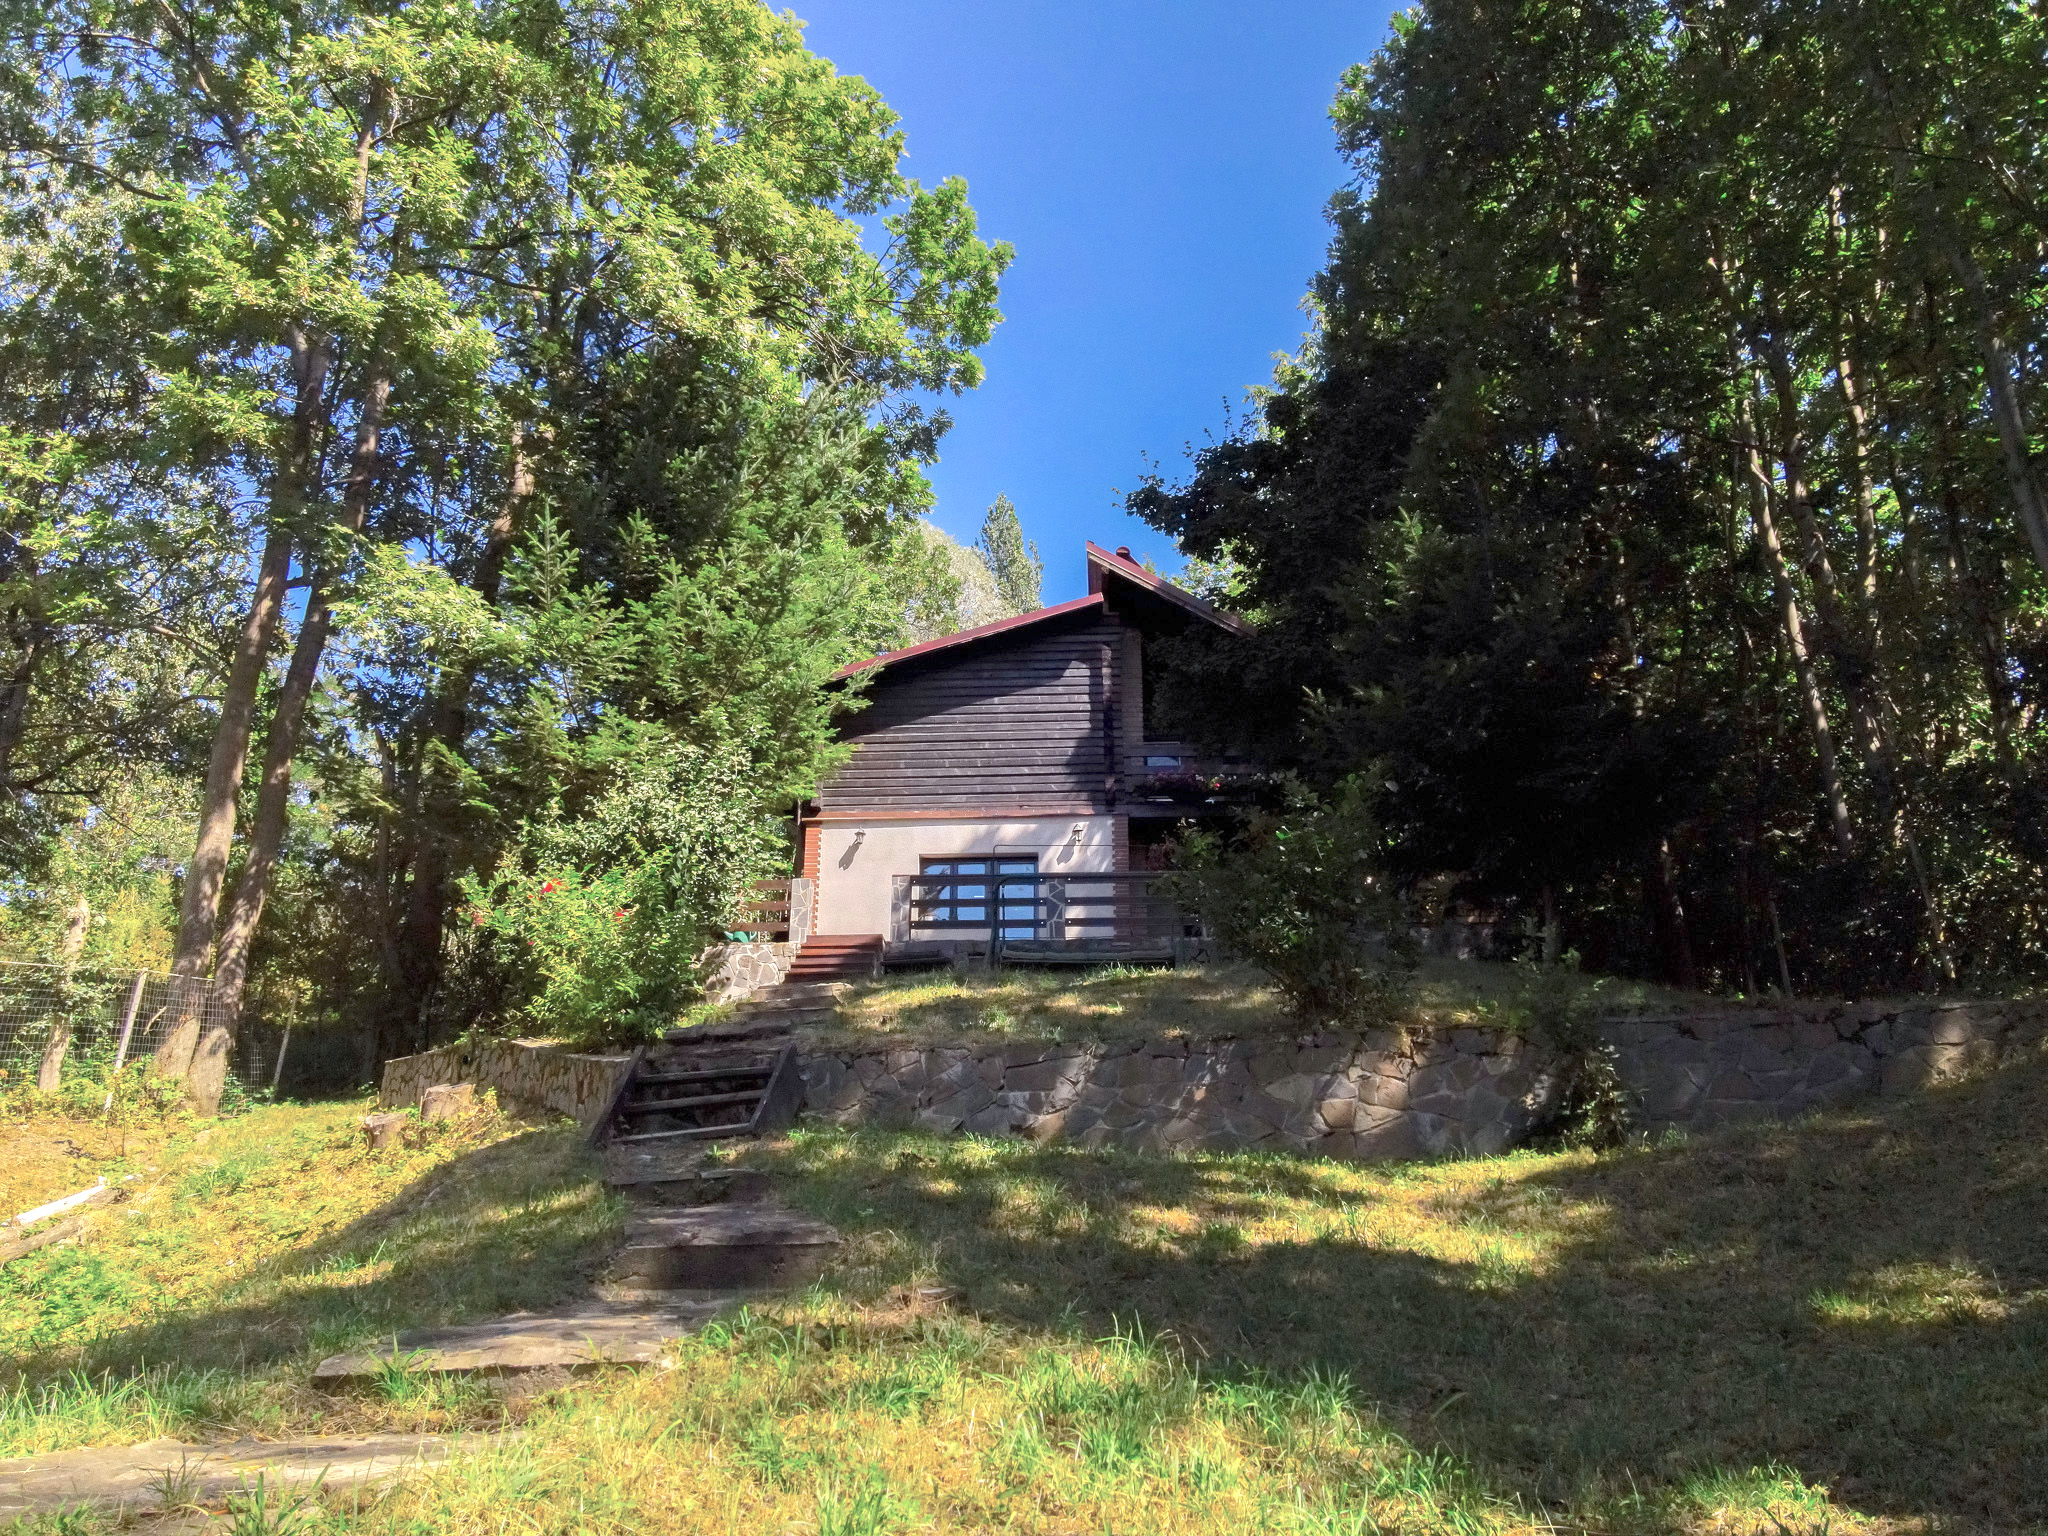
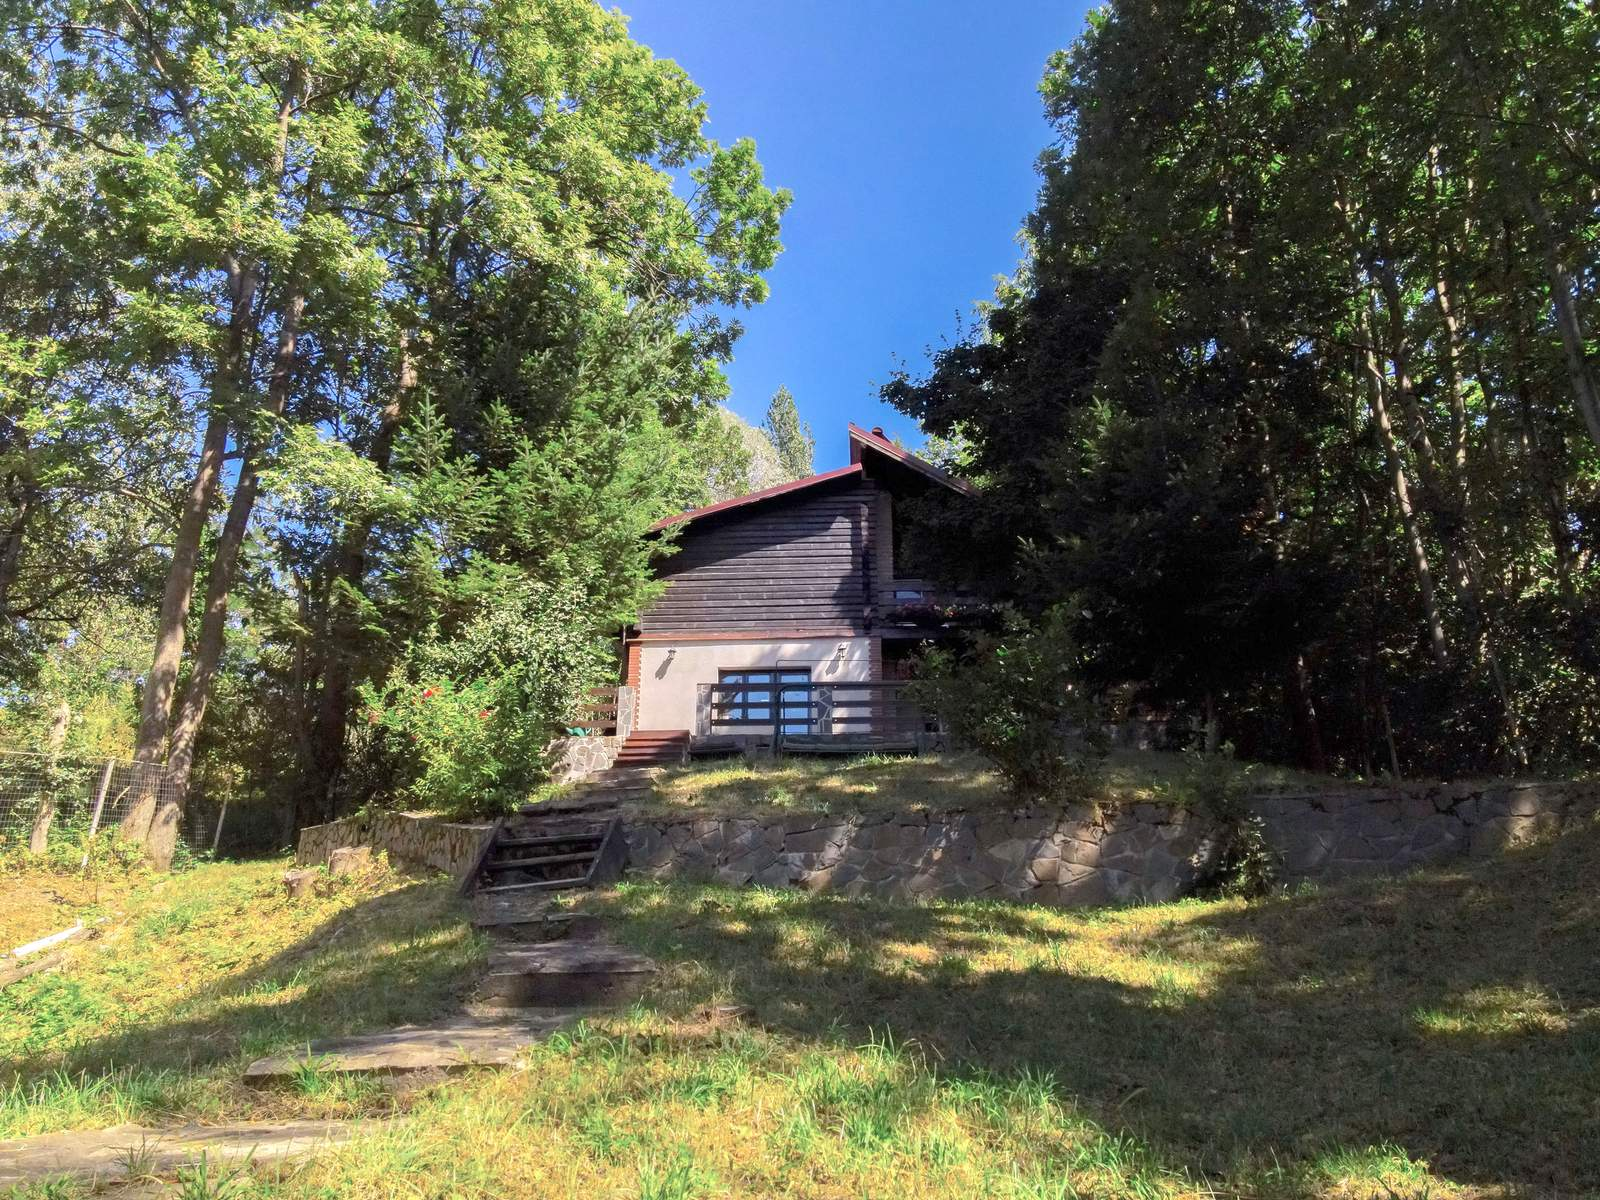
Merge pull request #147 from b-coman/fix/website-content-ux
fix: pre-ads-launch content/UX fixes for Prahova Chalet

Pull request: fix: pre-ads-launch content/UX fixes for Prahova Chalet
## Context
Audit found verified content/UX issues on prahova-chalet.ro ahead of paid Romanian ad traffic (P0/P1/P2). This PR fixes what's safely fixable in code without inventing content or touching Firestore/detection logic. **Not merged** — needs operator review before deploy (live site, no staging).

Already handled outside this PR (do not re-touch): `advertisedRate` set 160→420 in Firestore; currency/language detection is correct and untouched.

---

## FIXED

**P1-1 — Reviews lead with a complaint (`src/components/property/property-page-renderer.tsx`)**
Homepage "What Guests Say" carousel sorted newest-first, so a 3.5★ construction-noise complaint (guest "Illa") was the first review a visitor saw. Now sorts highest-rated-first (tiebreak: most recent) for the homepage carousel only. `/reviews` keeps newest-first for full transparency, per the audit's recommendation. No review content changed/deleted.

**P1-5 — Dead "Check Availability" CTAs (`property-page-renderer.tsx`, `src/components/homepage/call-to-action.tsx`)**
[…]

diff --git a/scripts/hide-area-guide-nav.ts b/scripts/hide-area-guide-nav.ts
@@ -1,0 +1,93 @@
+// One-off remediation script: hide the "/area-guide" nav item + page for a
+// property until real area-guide content is written (see PR fix/website-content-ux).
+//
+// The page currently renders template placeholder text ("Page Title" / "Page
+// description goes here" — "Titlul paginii" / "Descrierea paginii" in RO)
+// because propertyOverrides/<slug> has no "area-guide" content block, only a
+// visiblePages entry + a menuItems nav link. This script removes just those
+// two array entries via a targeted field update (re-reads the doc immediately
+// before writing, and only ever removes the known "area-guide" entries — it
+// never overwrites the document, so it cannot clobber other admin edits).
+//
+// NOT executed as part of the audit-fix PR — the operator should run this
+// (or the admin UI equivalent) only after confirming there's no near-term
+// plan to populate real area-guide content.
+//
+// Usage:
+//   npx tsx scripts/hide-area-guide-nav.ts <slug> --dry-run   (default, prints the diff only)
+//   npx tsx scripts/hide-area-guide-nav.ts <slug> --apply     (writes the change)
+//
+// Example:
+//   npx tsx scripts/hide-area-guide-nav.ts prahova-mountain-chalet --apply
+
+import * as dotenv from 'dotenv';
+import * as path from 'path';
+import * as admin from 'firebase-admin';
+
+dotenv.config({ path: path.resolve(process.cwd(), '.env.local') });
+
+const serviceAccountPath = process.env.FIREBASE_ADMIN_SERVICE_ACCOUNT_PATH;
+if (!serviceAccountPath) {
+  console.error('FIREBASE_ADMIN_SERVICE_ACCOUNT_PATH not set in .env.local');
+  process.exit(1);
+}
+
+admin.initializeApp({
+  credential: admin.credential.cert(path.resolve(serviceAccountPath)),
+});
+
+const db = admin.firestore();
+
+async function main() {
+  const args = process.argv.slice(2);
+  const slug = args.find((a) => !a.startsWith('--'));
+  const apply = args.includes('--apply');
+
+  if (!slug) {
+    console.error('Usage: npx tsx scripts/hide-area-guide-nav.ts <slug> [--apply]');
+    process.exit(1);
+  }
+
+  const docRef = db.collection('propertyOverrides').doc(slug);
+  const doc = await docRef.get();
+  if (!doc.exists) {
+    console.error(`propertyOverrides/${slug} not found`);
+    process.exit(1);
+  }
+
+  const data = doc.data()!;
+  const visiblePages: string[] = data.visiblePages || [];
+  const menuItems: Array<{ url?: string; label?: unknown }> = data.menuItems || [];
+
+  if (!visiblePages.includes('area-guide') && !menuItems.some((m) => m.url === '/area-guide')) {
+    console.log(`propertyOverrides/${slug}: "area-guide" is not present in visiblePages or menuItems — nothing to do.`);
+    process.exit(0);
+  }
+
+  const newVisiblePages = visiblePages.filter((p) => p !== 'area-guide');
+  const newMenuItems = menuItems.filter((m) => m.url !== '/area-guide');
+
+  console.log(`propertyOverrides/${slug}:`);
+  console.log(`  visiblePages: ${visiblePages.length} -> ${newVisiblePages.length} (removing "area-guide")`);
+  console.log(`  menuItems:    ${menuItems.length} -> ${newMenuItems.length} (removing "/area-guide" nav link)`);
+  console.log('\nNote: this only hides the nav link and blocks direct page access via visiblePages.');
+  console.log('The /area-guide route itself still exists in code — this is a content-level, not a code-level, hide.');
+
+  if (!apply) {
+    console.log('\nDry run only — nothing written. Re-run with --apply to write this change.');
+    process.exit(0);
+  }
+
+  await docRef.update({
+    visiblePages: newVisiblePages,
+    menuItems: newMenuItems,
+    updatedAt: admin.firestore.FieldValue.serverTimestamp(),
+  });
+  console.log('\nWritten.');
+  process.exit(0);
+}
+
+main().catch((err) => {
+  console.error('Error:', err.message);
+  process.exit(1);
+});

diff --git a/src/components/property/property-page-renderer.tsx b/src/components/property/property-page-renderer.tsx
@@ -282,6 +282,17 @@ export function PropertyPageRenderer({
         blockContent = {};
       }
 
+      // pricingTable has no server-side enrichment (unlike pricing display
+      // elsewhere on the site, which is driven by the live pricing engine) —
+      // without a property-specific override it renders raw template demo
+      // data (static seasonal prices in the wrong currency). That would show
+      // fake prices that contradict the real booking engine, for ANY
+      // property that includes this block without configuring it. Require an
+      // explicit per-property override before rendering.
+      if (type === 'pricingTable' && !pageOverride) {
+        return null;
+      }
+
       // If still undefined, skip rendering
       if (blockContent === undefined) {
         console.warn(`No content found for block: ${id}`);
@@ -475,11 +486,23 @@ export function PropertyPageRenderer({
           };
         }
       } else if (type === 'cta') {
-        // For CTA buttons — process buttonUrl for proper routing
-        const rawUrl = blockContent?.buttonUrl || '/booking';
-        const processedUrl = (!rawUrl.startsWith('http') && !isCustomDomain)
-          ? `/properties/${propertySlug}${rawUrl}`
-          : rawUrl;
+        // For CTA buttons — process buttonUrl for proper routing.
+        // A configured target of "/" (or nothing) is a dead end for a closing
+        // "Check Availability" CTA — it just returns the visitor to the top of
+        // the homepage instead of the booking flow. Route those cases to the
+        // real availability entry point instead, matching the hero booking
+        // widget's target (see InitialBookingForm.tsx): an absolute
+        // /booking/check/<slug> path that lives OUTSIDE /properties/<slug>
+        // regardless of domain, so it must bypass the prefixing below.
+        const configuredUrl = blockContent?.buttonUrl;
+        let processedUrl: string;
+        if (!configuredUrl || configuredUrl === '/') {
+          processedUrl = `/booking/check/${propertySlug}`;
+        } else {
+          processedUrl = (!configuredUrl.startsWith('http') && !isCustomDomain)
+            ? `/properties/${propertySlug}${configuredUrl}`
+            : configuredUrl;
+        }
         blockContent = {
           ...blockContent,
           propertySlug: propertySlug,
@@ -597,15 +620,34 @@ export function PropertyPageRenderer({
             return undefined;
           };
 
-          // Convert real reviews to testimonials format
-          const realReviews = publishedReviews?.map(r => ({
-            name: r.guestName,
-            date: convertReviewDate(r.date),
-            rating: r.rating,
-            text: r.comment,
-            source: r.source,
-            sourceUrl: r.sourceUrl,
-          })) || [];
+          // Get a comparable timestamp (ms) from a Firestore-ish date value, for sorting.
+          const reviewDateMs = (d: any): number => {
+            if (!d) return 0;
+            if (typeof d === 'string') return new Date(d).getTime() || 0;
+            if (d._seconds) return d._seconds * 1000;
+            if (d instanceof Date) return d.getTime();
+            return 0;
+          };
+
+          // Convert real reviews to testimonials format.
+          // Sort highest-rated-first (tiebreak: most recent) so the homepage carousel
+          // leads with strong social proof rather than whatever review happens to be
+          // newest — property-agnostic, no manual curation required.
+          // (The dedicated /reviews page keeps newest-first ordering for full transparency.)
+          const realReviews = [...(publishedReviews || [])]
+            .sort((a, b) => {
+              const ratingDiff = (b.rating || 0) - (a.rating || 0);
+              if (ratingDiff !== 0) return ratingDiff;
+              return reviewDateMs(b.date) - reviewDateMs(a.date);
+            })
+            .map(r => ({
+              name: r.guestName,
+              date: convertReviewDate(r.date),
+              rating: r.rating,
+              text: r.comment,
+              source: r.source,
+              sourceUrl: r.sourceUrl,
+            }));
 
           // Real reviews take priority, override reviews as fallback
           const overrideReviews = blockContent?.reviews || [];

diff --git a/src/components/homepage/call-to-action.tsx b/src/components/homepage/call-to-action.tsx
@@ -11,6 +11,7 @@ interface CtaContent {
   buttonUrl: string;
   backgroundImage?: string;
   'data-ai-hint'?: string;
+  propertySlug?: string;
 }
 
 interface CallToActionSectionProps {
@@ -20,11 +21,14 @@ interface CallToActionSectionProps {
 // Main export with the name used in property-page-renderer.tsx
 export function CallToActionSection({ content }: CallToActionSectionProps) {
   // Extract properties from content
-  const { title, description, buttonText, buttonUrl } = content;
+  const { title, description, buttonText, buttonUrl, propertySlug } = content;
   const { tc } = useLanguage();
 
-  // Determine the target link
-  const targetHref = buttonUrl || '/booking'; // Default to booking page
+  // Determine the target link. buttonUrl is normally pre-resolved by
+  // property-page-renderer.tsx; this fallback only fires if content is
+  // malformed. "/booking" is the House Rules page, NOT the booking flow —
+  // point to the real availability entry point instead.
+  const targetHref = buttonUrl || (propertySlug ? `/booking/check/${propertySlug}` : '/');
 
   // Don't render if required props are missing
   if (!title || !description || !buttonText) {